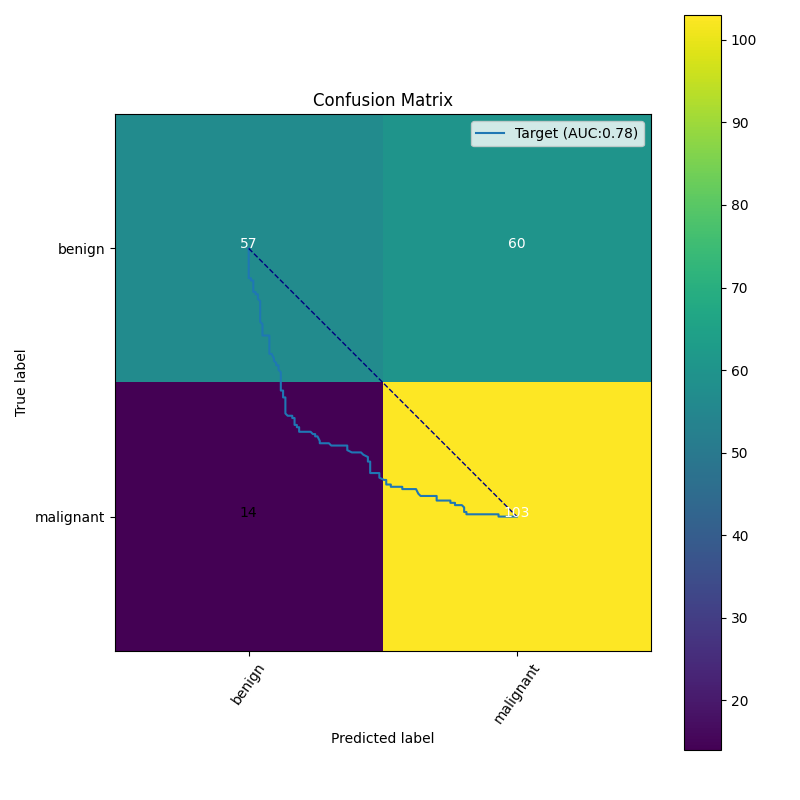
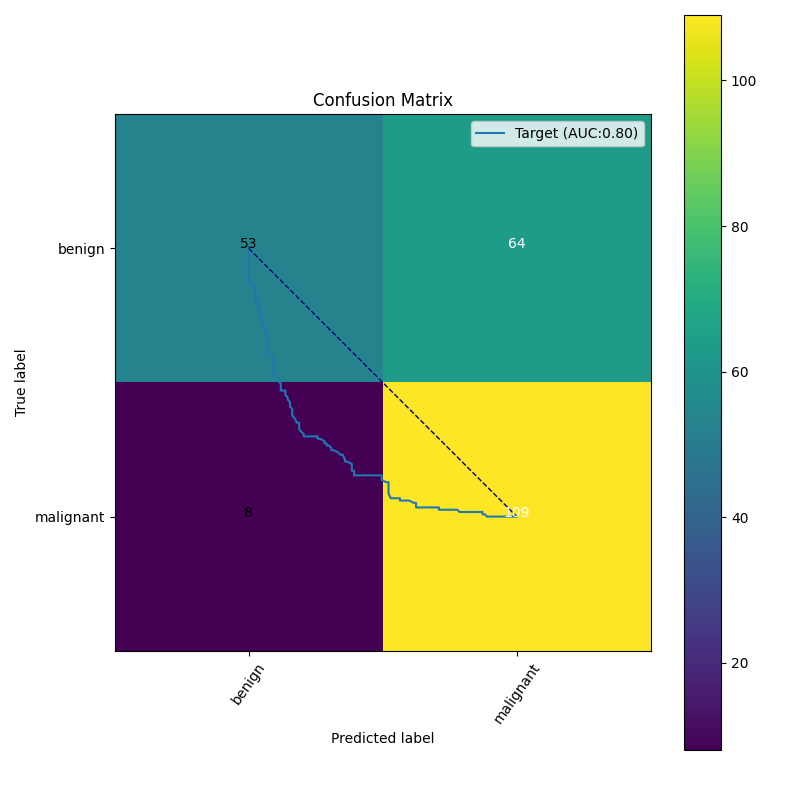
colab training

diff --git a/train.py b/train.py
@@ -6,8 +6,8 @@ os.environ["TF_CPP_MIN_LOG_LEVEL"] = "2"
 from sklearn.metrics import roc_curve, auc, precision_recall_curve, confusion_matrix
 from keras.callbacks import ModelCheckpoint, EarlyStopping
 from keras.preprocessing.image import ImageDataGenerator
+from tensorflow.keras.models import Sequential, Model
 from sklearn.model_selection import train_test_split
-from tensorflow.keras.models import Sequential
 from keras.applications.vgg16 import VGG16
 from tensorflow.keras import layers
 from datetime import datetime, date
@@ -34,7 +34,7 @@ SAVE_OUTPUT = True
 IMG_SIZE = (224, 224)
 INPUT_SHAPE = (224, 224, 3)
 
-EPOCHS = 1
+EPOCHS = 40
 BATCH_SIZE = 64
 LEARNING_RATE = 1e-4
 OPTIMIZER = Adam(lr=LEARNING_RATE)
@@ -340,18 +340,19 @@ def get_validation_gen(df):
     return val_gen
 
 
-def load_pretrained_model():
+def load_pretrained_model(layer_of_interest = "block5_pool"):
     """ Helper function which returns a VGG16 model
     """
-    base_model = VGG16(
-        input_shape=INPUT_SHAPE,
-        include_top=False,
-        weights='imagenet'
-    )
+    vgg_model = VGG16(include_top=True, weights='imagenet')
+    transfer_layer = vgg_model.get_layer(layer_of_interest)
+    base_model = Model(inputs = vgg_model.input, outputs = transfer_layer.output)
+    
+    for layer in base_model.layers[0:17]:
+        layer.trainable = False
 
     # freeze the first 15 layers of the base model. All other layers are trainable.
-    for layer in base_model.layers[0:15]:
-        layer.trainable = False
+    #for layer in base_model.layers[0:15]:
+        #layer.trainable = False
 
     for idx, layer in enumerate(base_model.layers):
         print("layer", idx + 1, ":", layer.name,
@@ -389,7 +390,6 @@ def create_model():
     model.add(layers.Dense(NUM_CLASSES, activation='softmax'))
 
     return model
-
 
 seed_all(SEED)
 train = get_train_data()
